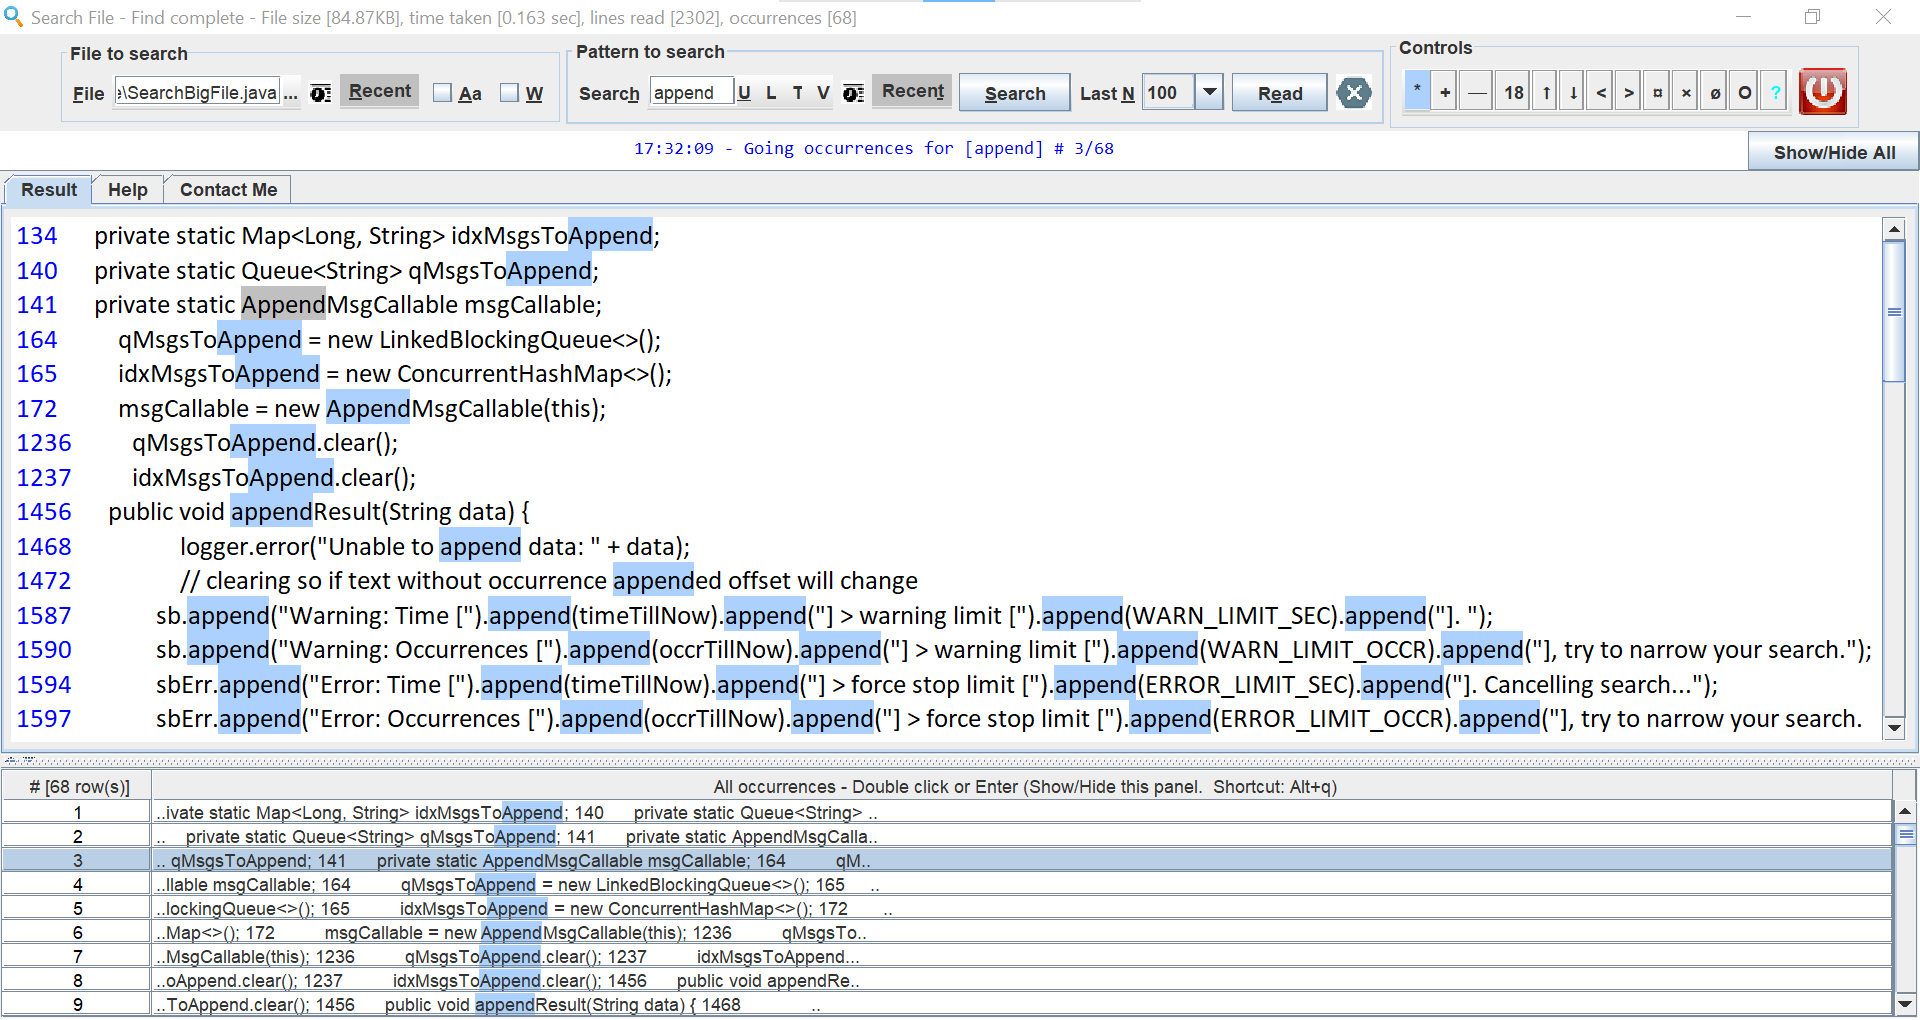
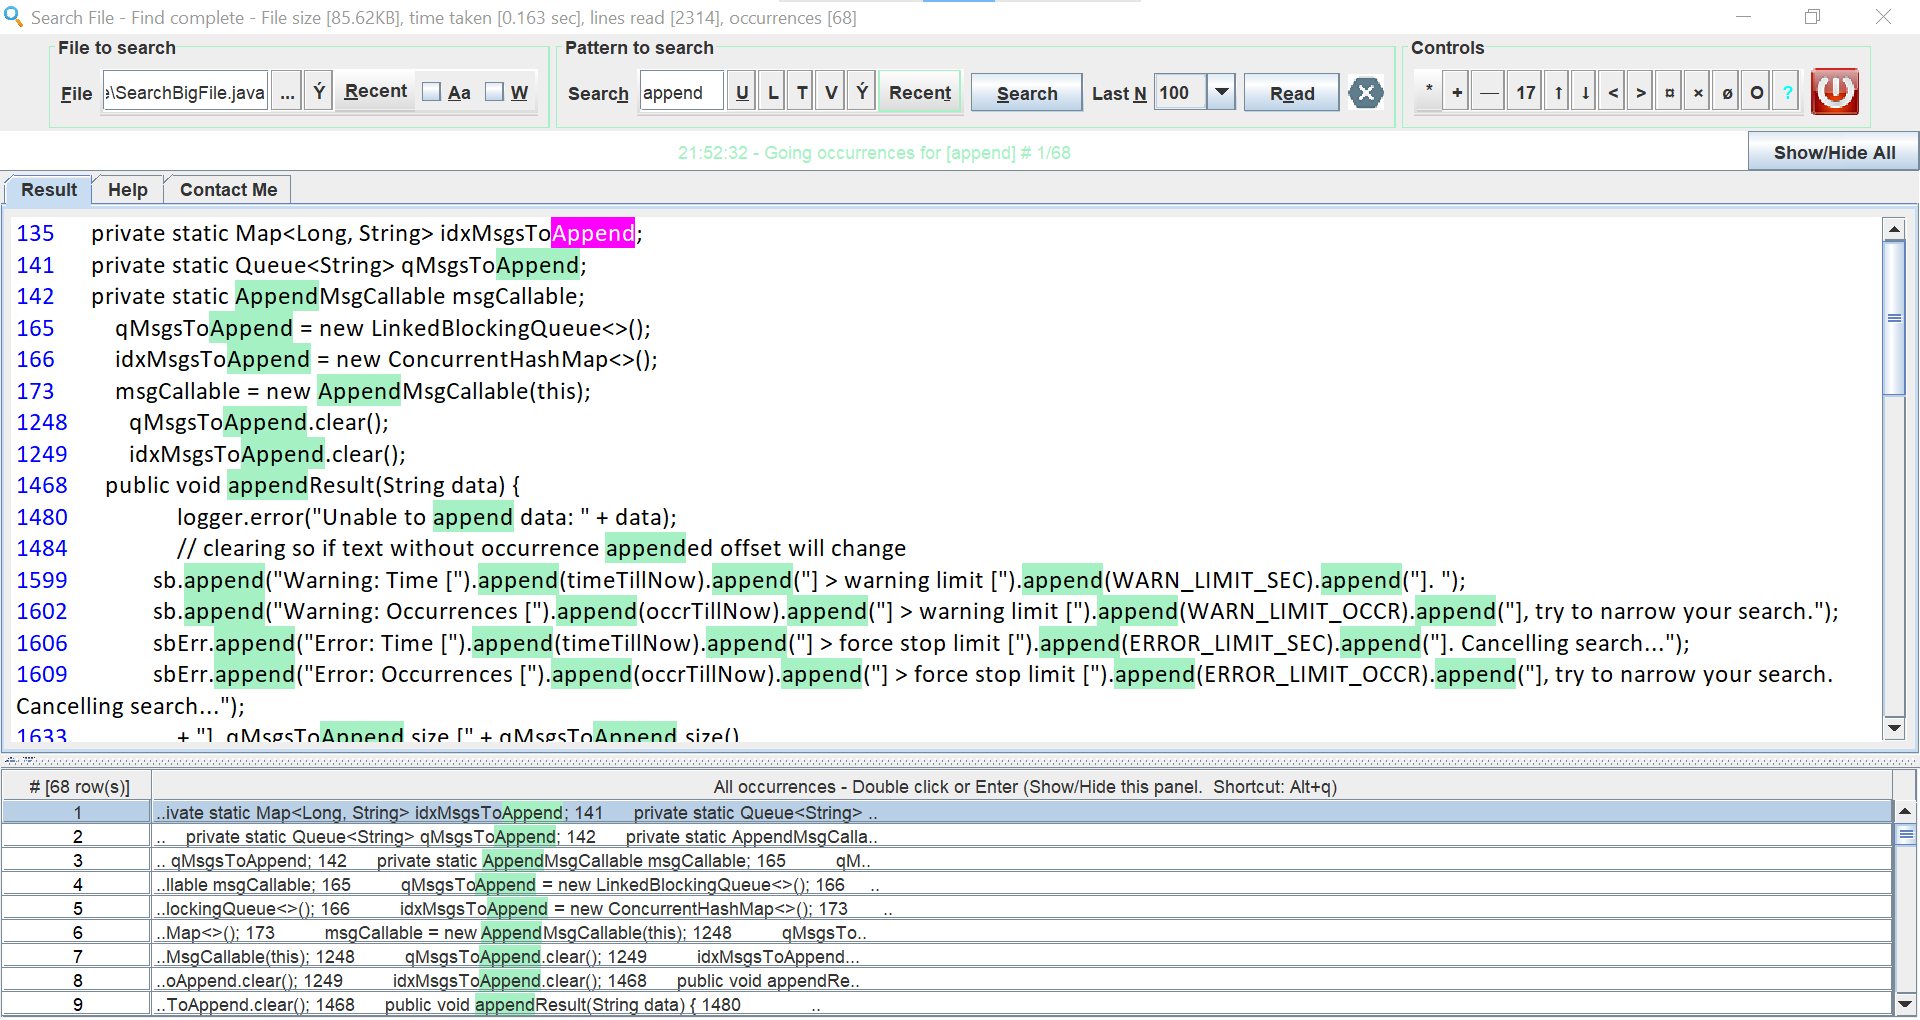
update color theme for app

diff --git a/src/main/java/com/sv/bigfile/SearchBigFile.java b/src/main/java/com/sv/bigfile/SearchBigFile.java
@@ -82,11 +82,12 @@ public class SearchBigFile extends AppFrame {
     private JScrollPane jspAllOccr;
     private JTabbedPane tabbedPane;
     private JMenu menuRFiles, menuRSearches, menuSettings, menuFonts;
+    private JToolBar jtbFile, jtbSearch, jtbActions;
     private JPanel msgPanel;
     private JLabel lblMsg;
-    private JButton btnShowAll;
+    private JButton btnShowAll, btnListRS, btnListRF;
     private JButton btnPlusFont, btnMinusFont, btnResetFont;
-    private JButton btnGoTop, btnGoBottom, btnNextOccr, btnPreOccr, btnFind, btnHelp;
+    private JButton btnFileOpen, btnGoTop, btnGoBottom, btnNextOccr, btnPreOccr, btnFind, btnHelp;
     private JButton btnSearch, btnLastN, btnCancel;
     private AppTextField txtFilePath, txtSearch;
     private JEditorPane epResults, tpHelp, tpContactMe;
@@ -125,7 +126,7 @@ public class SearchBigFile extends AppFrame {
     private long linesTillNow;
 
     private JComponent[] bkColorComponents;
-    private JMenuBar mbSettings;
+    private JMenuBar mbSettings, mbRSearches, mbRFiles;
     private static Color highlightColor, highlightTextColor, selectionColor, selectionTextColor;
     private static String highlightColorStr;
     private static Status status = Status.NOT_STARTED;
@@ -185,11 +186,11 @@ public class SearchBigFile extends AppFrame {
         txtFilePath = new AppTextField(getCfg(Configs.FilePath), TXT_COLS, getFiles());
         AppLabel lblFilePath = new AppLabel(uin.name, txtFilePath, uin.mnemonic);
         uin = UIName.BTN_FILE;
-        JButton btnFileOpen = new AppButton(uin.name, uin.mnemonic, uin.tip, "", true);
+        btnFileOpen = new AppButton(uin.name, uin.mnemonic, uin.tip);// no need as image //, "", true);
         btnFileOpen.addActionListener(e -> openFile());
 
         uin = UIName.BTN_LISTRF;
-        JButton btnListRF = new AppButton(uin.name, uin.mnemonic, uin.tip, "./icons/recent-icon.png");
+        btnListRF = new AppButton(uin.name, uin.mnemonic, uin.tip);
         btnListRF.addActionListener(e -> showListRF());
         uin = UIName.JCB_MATCHCASE;
         jcbMatchCase = new JCheckBox(uin.name, getBooleanCfg(Configs.MatchCase));
@@ -202,27 +203,28 @@ public class SearchBigFile extends AppFrame {
 
         filePanel.setLayout(new FlowLayout());
         filePanel.add(lblFilePath);
-        JToolBar jtbFile = new JToolBar();
+
+        uin = UIName.LBL_RFILES;
+        mbRFiles = new JMenuBar();
+        menuRFiles = new JMenu(uin.name);
+        menuRFiles.setMnemonic(uin.mnemonic);
+        menuRFiles.setToolTipText(uin.tip);
+        mbRFiles.add(menuRFiles);
+        updateRecentMenu(menuRFiles, getFiles(), txtFilePath, TXT_F_MAP_KEY);
+
+        jtbFile = new JToolBar();
         jtbFile.setFloatable(false);
         jtbFile.setRollover(false);
         jtbFile.add(txtFilePath);
         jtbFile.add(btnFileOpen);
-
-        uin = UIName.LBL_RFILES;
-        JMenuBar mb = new JMenuBar();
-        menuRFiles = new JMenu(uin.name);
-        mb.setBackground(Color.lightGray);
-        menuRFiles.setMnemonic(uin.mnemonic);
-        menuRFiles.setToolTipText(uin.tip);
-        mb.add(menuRFiles);
-        updateRecentMenu(menuRFiles, getFiles(), txtFilePath, TXT_F_MAP_KEY);
+        jtbFile.add(btnListRF);
+        jtbFile.add(btnListRF);
+        jtbFile.add(mbRFiles);
+        jtbFile.add(jcbMatchCase);
+        jtbFile.add(jcbWholeWord);
 
         filePanel.add(jtbFile);
-        filePanel.add(btnListRF);
-        filePanel.add(mb);
-        filePanel.add(jcbMatchCase);
-        filePanel.add(jcbWholeWord);
-        filePanel.setBorder(new TitledBorder(filePanelHeading));
+        filePanel.setBorder(SwingUtils.createTitledBorder(filePanelHeading, highlightColor));
 
         searchPanel = new JPanel();
 
@@ -250,42 +252,42 @@ public class SearchBigFile extends AppFrame {
         btnLastN = new AppButton(uin.name, uin.mnemonic, uin.tip);
         btnLastN.addActionListener(evt -> readFile());
         uin = UIName.BTN_LISTRS;
-        JButton btnListRS = new AppButton(uin.name, uin.mnemonic, uin.tip, "./icons/recent-icon.png");
+        btnListRS = new AppButton(uin.name, uin.mnemonic, uin.tip);
         btnListRS.addActionListener(e -> showListRS());
 
         uin = UIName.BTN_UC;
-        AppButton btnUC = new AppButton(uin.name, uin.mnemonic, uin.tip, "", true);
+        AppButton btnUC = new AppButton(uin.name, uin.mnemonic, uin.tip);
         btnUC.addActionListener(e -> changeCase(CaseType.UPPER));
         uin = UIName.BTN_LC;
-        AppButton btnLC = new AppButton(uin.name, uin.mnemonic, uin.tip, "", true);
+        AppButton btnLC = new AppButton(uin.name, uin.mnemonic, uin.tip);
         btnLC.addActionListener(e -> changeCase(CaseType.LOWER));
         uin = UIName.BTN_TC;
-        AppButton btnTC = new AppButton(uin.name, uin.mnemonic, uin.tip, "", true);
+        AppButton btnTC = new AppButton(uin.name, uin.mnemonic, uin.tip);
         btnTC.addActionListener(e -> changeCase(CaseType.TITLE));
         uin = UIName.BTN_IC;
-        AppButton btnIC = new AppButton(uin.name, uin.mnemonic, uin.tip, "", true);
+        AppButton btnIC = new AppButton(uin.name, uin.mnemonic, uin.tip);
         btnIC.addActionListener(e -> changeCase(CaseType.INVERT));
-        JToolBar jtbSearch = new JToolBar();
-        jtbSearch.setFloatable(false);
-        jtbSearch.setRollover(false);
-        jtbSearch.add(txtSearch);
-        jtbSearch.add(btnUC);
-        jtbSearch.addSeparator();
-        jtbSearch.add(btnLC);
-        jtbSearch.addSeparator();
-        jtbSearch.add(btnTC);
-        jtbSearch.addSeparator();
-        jtbSearch.add(btnIC);
 
         //Supports if single line is around 30mb in one file as json response
         uin = UIName.LBL_RSEARCHES;
-        JMenuBar mbar = new JMenuBar();
+        mbRSearches = new JMenuBar();
         menuRSearches = new JMenu(uin.name);
-        mbar.setBackground(Color.lightGray);
         menuRSearches.setMnemonic(uin.mnemonic);
         menuRSearches.setToolTipText(uin.tip);
-        mbar.add(menuRSearches);
+        mbRSearches.add(menuRSearches);
+        mbRSearches.setBorder(SwingUtils.createLineBorder(highlightColor));
         updateRecentMenu(menuRSearches, getSearches(), txtSearch, TXT_S_MAP_KEY);
+
+        jtbSearch = new JToolBar();
+        jtbSearch.setFloatable(false);
+        jtbSearch.setRollover(true);
+        jtbSearch.add(txtSearch);
+        jtbSearch.add(btnUC);
+        jtbSearch.add(btnLC);
+        jtbSearch.add(btnTC);
+        jtbSearch.add(btnIC);
+        jtbSearch.add(btnListRS);
+        jtbSearch.add(mbRSearches);
 
         uin = UIName.MNU_SETTINGS;
         mbSettings = new JMenuBar();
@@ -303,16 +305,14 @@ public class SearchBigFile extends AppFrame {
         searchPanel.setLayout(new FlowLayout());
         searchPanel.add(lblSearch);
         searchPanel.add(jtbSearch);
-        searchPanel.add(btnListRS);
-        searchPanel.add(mbar);
         searchPanel.add(btnSearch);
         searchPanel.add(lblLastN);
         searchPanel.add(cbLastN);
         searchPanel.add(btnLastN);
         searchPanel.add(btnCancel);
-        searchPanel.setBorder(new TitledBorder(searchPanelHeading));
+        searchPanel.setBorder(SwingUtils.createTitledBorder(searchPanelHeading, highlightColor));
 
-        JToolBar jtbActions = new JToolBar();
+        jtbActions = new JToolBar();
         jtbActions.setFloatable(false);
         jtbActions.setRollover(false);
         uin = UIName.BTN_PLUSFONT;
@@ -374,7 +374,7 @@ public class SearchBigFile extends AppFrame {
         jtbActions.add(btnHelpBrowser);
         jtbActions.add(btnHelp);
         controlPanel.add(btnExit);
-        controlPanel.setBorder(new TitledBorder(controlPanelHeading));
+        controlPanel.setBorder(SwingUtils.createTitledBorder(controlPanelHeading, highlightColor));
 
         inputPanel = new JPanel();
         inputPanel.setOpaque(true);
@@ -474,8 +474,10 @@ public class SearchBigFile extends AppFrame {
         menuRFiles.setSize(menuRFiles.getWidth(), btnSearch.getHeight());
         menuRSearches.setSize(menuRSearches.getWidth(), btnSearch.getHeight());
 
-        bkColorComponents = new JButton[]{
-                btnPlusFont, btnMinusFont, btnResetFont, btnGoTop,
+        bkColorComponents = new JComponent[]{
+                menuSettings, menuRFiles, menuRSearches,
+                btnListRS, btnListRF, btnUC, btnLC, btnTC, btnIC,
+                btnFileOpen, btnPlusFont, btnMinusFont, btnResetFont, btnGoTop,
                 btnGoBottom, btnNextOccr, btnPreOccr, btnFind, btnHelp, btnHelpBrowser,
                 btnExport, btnCleanExport
         };
@@ -638,6 +640,7 @@ public class SearchBigFile extends AppFrame {
                 new String[]{"#", "All occurrences - Double click or Enter (Show/Hide this panel. "
                         + SHORTCUT + (Character.toLowerCase((char) btnShowAll.getMnemonic())) + ")"});
         tblAllOccr = new AppTable(modelAllOccr);
+        tblAllOccr.setOpaque(true);
         tblAllOccr.addEnterOnRow(new AllOccrEnterAction(tblAllOccr, this));
         tblAllOccr.addDblClickOnRow(this, new Object[]{}, "dblClickOffset");
         tblAllOccr.getColumnModel().getColumn(0).setMaxWidth(100);
@@ -805,7 +808,7 @@ public class SearchBigFile extends AppFrame {
 
     private void setHighlightColor() {
         setColorFromIdx();
-        mbSettings.setBackground(highlightColor);
+        //mbSettings.setBackground(highlightColor);
         highlightColorStr = SwingUtils.htmlBGColor(highlightColor);
         painter = new DefaultHighlighter.DefaultHighlightPainter(highlightColor);
         if (timeTaken != null) {
@@ -820,9 +823,15 @@ public class SearchBigFile extends AppFrame {
 
     private void changeAppColor() {
         if (jcbmiApplyToApp.getState()) {
+
             filePanel.setBorder(SwingUtils.createTitledBorder(filePanelHeading, highlightTextColor));
             searchPanel.setBorder(SwingUtils.createTitledBorder(searchPanelHeading, highlightTextColor));
             controlPanel.setBorder(SwingUtils.createTitledBorder(controlPanelHeading, highlightTextColor));
+            msgPanel.setBorder(SwingUtils.createLineBorder(highlightColor));
+
+            mbRFiles.setBorder(SwingUtils.createLineBorder(selectionColor));
+            mbRSearches.setBorder(SwingUtils.createLineBorder(selectionColor));
+            mbSettings.setBorder(SwingUtils.createLineBorder(selectionColor));
 
             // This sets foreground of scroll bar but removes background color
             /*UIManager.put("ScrollBar.thumb", new ColorUIResource(selectionColor));
@@ -836,18 +845,14 @@ public class SearchBigFile extends AppFrame {
                 p.getHorizontalScrollBar().setBackground(highlightColor);
             });
 
+            //tabbedPane.setOpaque(true);
+            // calling it separately as making opaque is making it weird, so just changing tab color
             tabbedPane.setBackground(highlightColor);
-            //tabbedPane.getSelectedComponent().setBackground(highlightColor);
-            tblAllOccr.setOpaque(true);
-            tblAllOccr.getTableHeader().setBackground(highlightColor);
-            splitAllOccr.setOpaque(true);
-            splitAllOccr.setBackground(highlightColor);
-            splitAllOccr.setForeground(highlightColor);
-
-            msgPanel.setBorder(SwingUtils.createLineBorder(highlightColor));
-            SwingUtils.setComponentColor(inputPanel, highlightColor, highlightTextColor);
             Arrays.stream(inputPanel.getComponents()).forEach(c ->
-                    SwingUtils.setComponentColor((JComponent) c, highlightColor, highlightTextColor));
+                    SwingUtils.setComponentColor((JComponent)c, highlightColor, null));
+            JComponent[] ca = {tblAllOccr.getTableHeader(), inputPanel, jtbSearch, jtbActions};
+            Arrays.stream(ca).forEach(c -> SwingUtils.setComponentColor(c, highlightColor, null));
+
             setBkColors(bkColorComponents);
         }
     }
@@ -1062,9 +1067,7 @@ public class SearchBigFile extends AppFrame {
     }
 
     private void setBkColors(JComponent[] c) {
-        synchronized (SearchBigFile.class) {
-            SwingUtils.setComponentColor(c, highlightColor, highlightTextColor, selectionColor, selectionTextColor);
-        }
+        SwingUtils.setComponentColor(c, highlightColor, highlightTextColor, selectionColor, selectionTextColor);
     }
 
     private Font getFontForEditor(String sizeStr) {
@@ -1199,6 +1202,8 @@ public class SearchBigFile extends AppFrame {
         frame.setAlwaysOnTop(true);
         frame.setToCenter();
 
+        // as this is dynamic not taking to setAppColor method
+        table.getTableHeader().setBackground(highlightColor);
         SwingUtils.addEscKeyAction(frame);
     }
 
@@ -1567,7 +1572,7 @@ public class SearchBigFile extends AppFrame {
     public void showMsg(String msg, MyLogger.MsgType type) {
         if (Utils.hasValue(msg)) {
             Color b = Color.white;
-            Color f = Color.blue;
+            Color f = highlightColor;
             if (type == MyLogger.MsgType.ERROR) {
                 b = Color.red;
                 f = Color.white;

diff --git a/src/main/java/com/sv/bigfile/UIName.java b/src/main/java/com/sv/bigfile/UIName.java
@@ -14,7 +14,7 @@ public enum UIName {
     BTN_LC("L", 'y', "Make search string to lower case."),
     BTN_TC("T", 'p', "Make search string to title case."),
     BTN_IC("V", 'k', "Invert case of search string."),
-    BTN_LISTRF("", 'L', "Search recently used file list."),
+    BTN_LISTRF("Ý", 'L', "Search recently used file list."),
     BTN_PLUSFONT("+", '=', "Increase font size for results, max [" + AppConstants.MAX_FONT_SIZE + "]."),
     BTN_MINUSFONT("—", '-', "Decrease font size for results, min [" + AppConstants.MIN_FONT_SIZE + "]."),
     BTN_RESETFONT("", '0', "Text shows present font size of Results.  Click to reset to [" + AppConstants.DEFAULT_FONT_SIZE + "]."),
@@ -35,7 +35,7 @@ public enum UIName {
     BTN_LASTN("Read", 'e', "Read last N lines and highlight."),
     LBL_RSEARCHES("Recent", 't', "Recently used search-patterns list."),
     MNU_SETTINGS("*", 'b', "Settings, present highlight color is shown as background."),
-    BTN_LISTRS("", 'I', "Search recently used search-patterns list."),
+    BTN_LISTRS("Ý", 'I', "Search recently used search-patterns list."),
     BTN_CANCEL("", 'C', "Cancel/Stop Search/Read");
 
     String name, tip;
